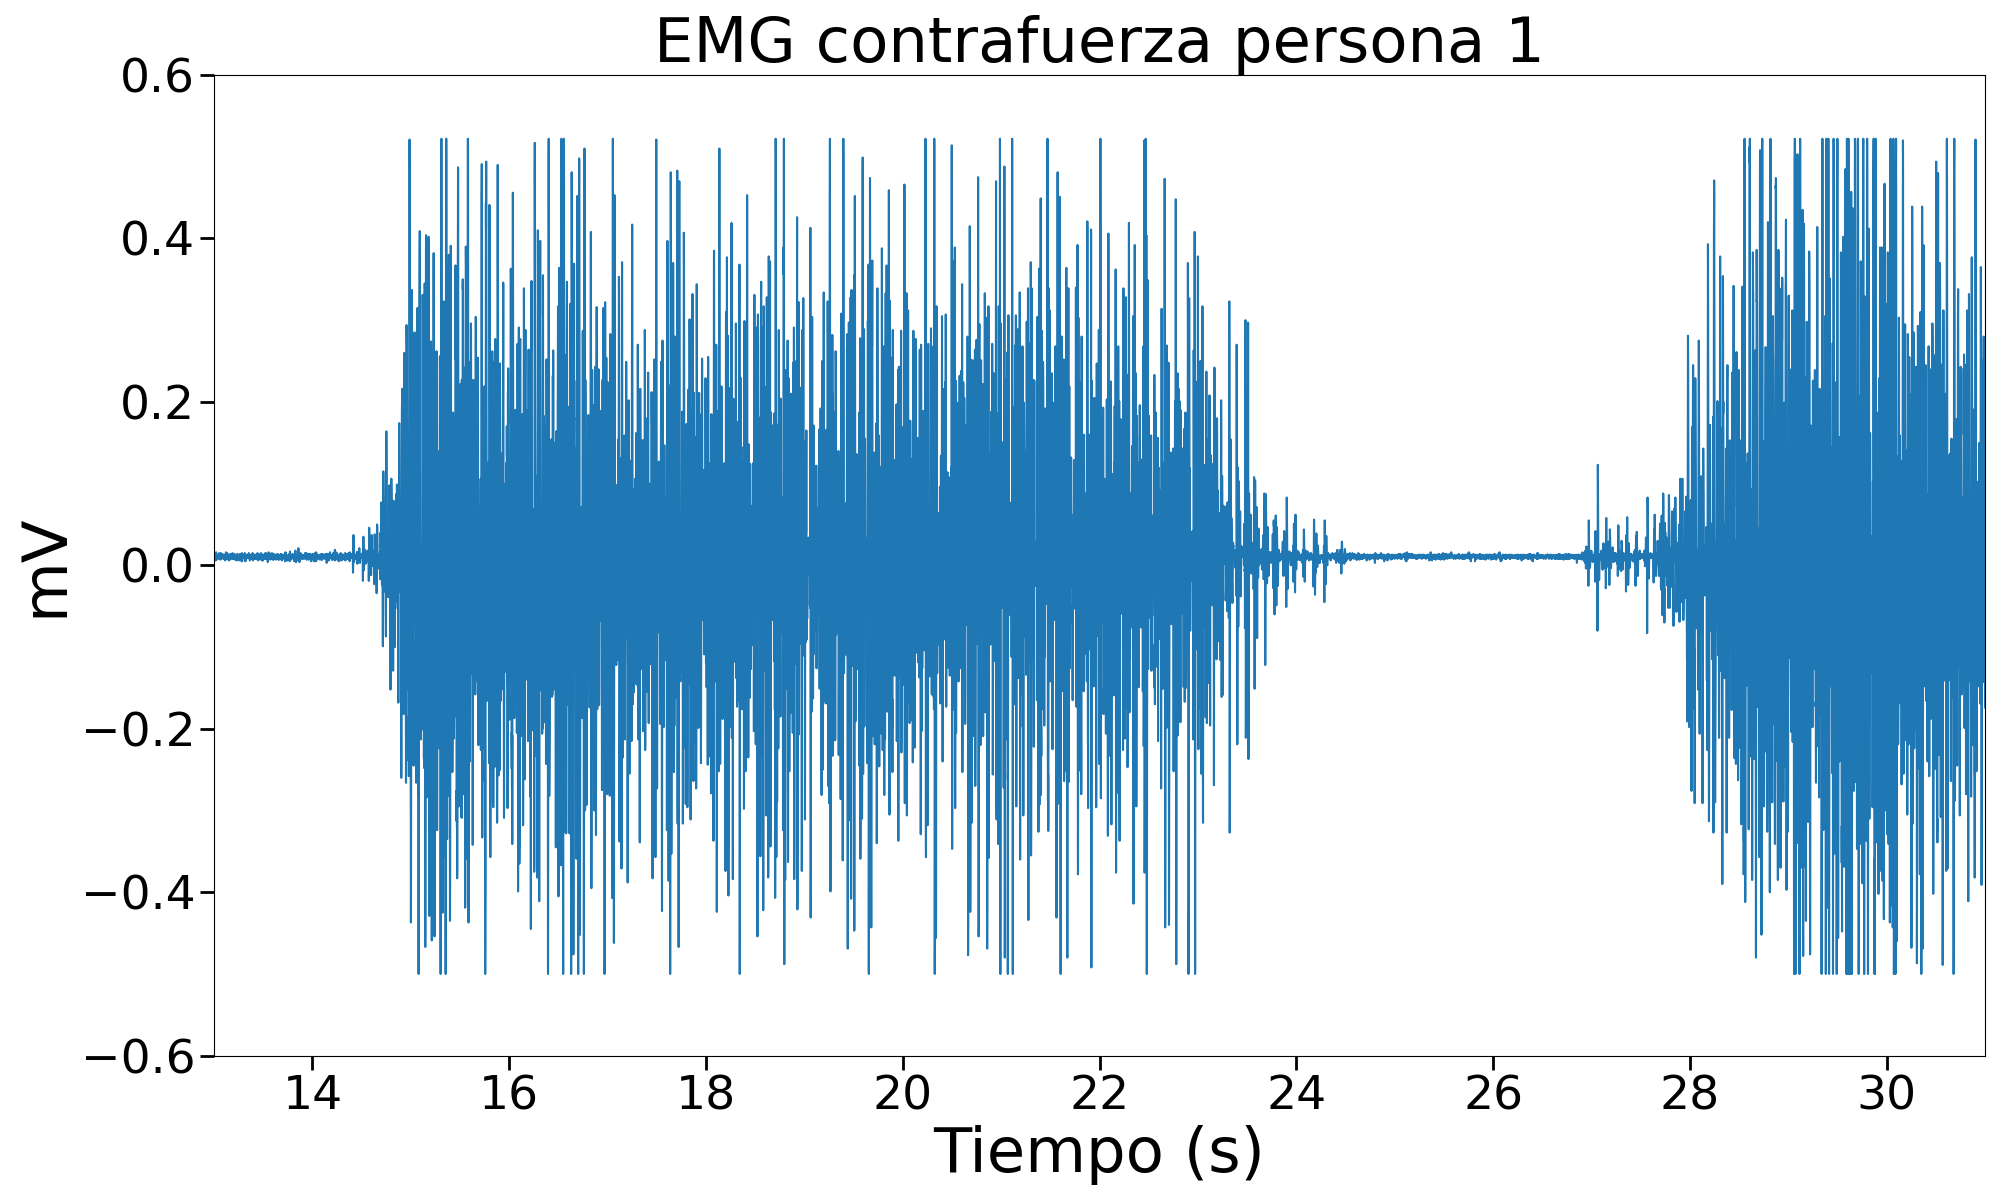
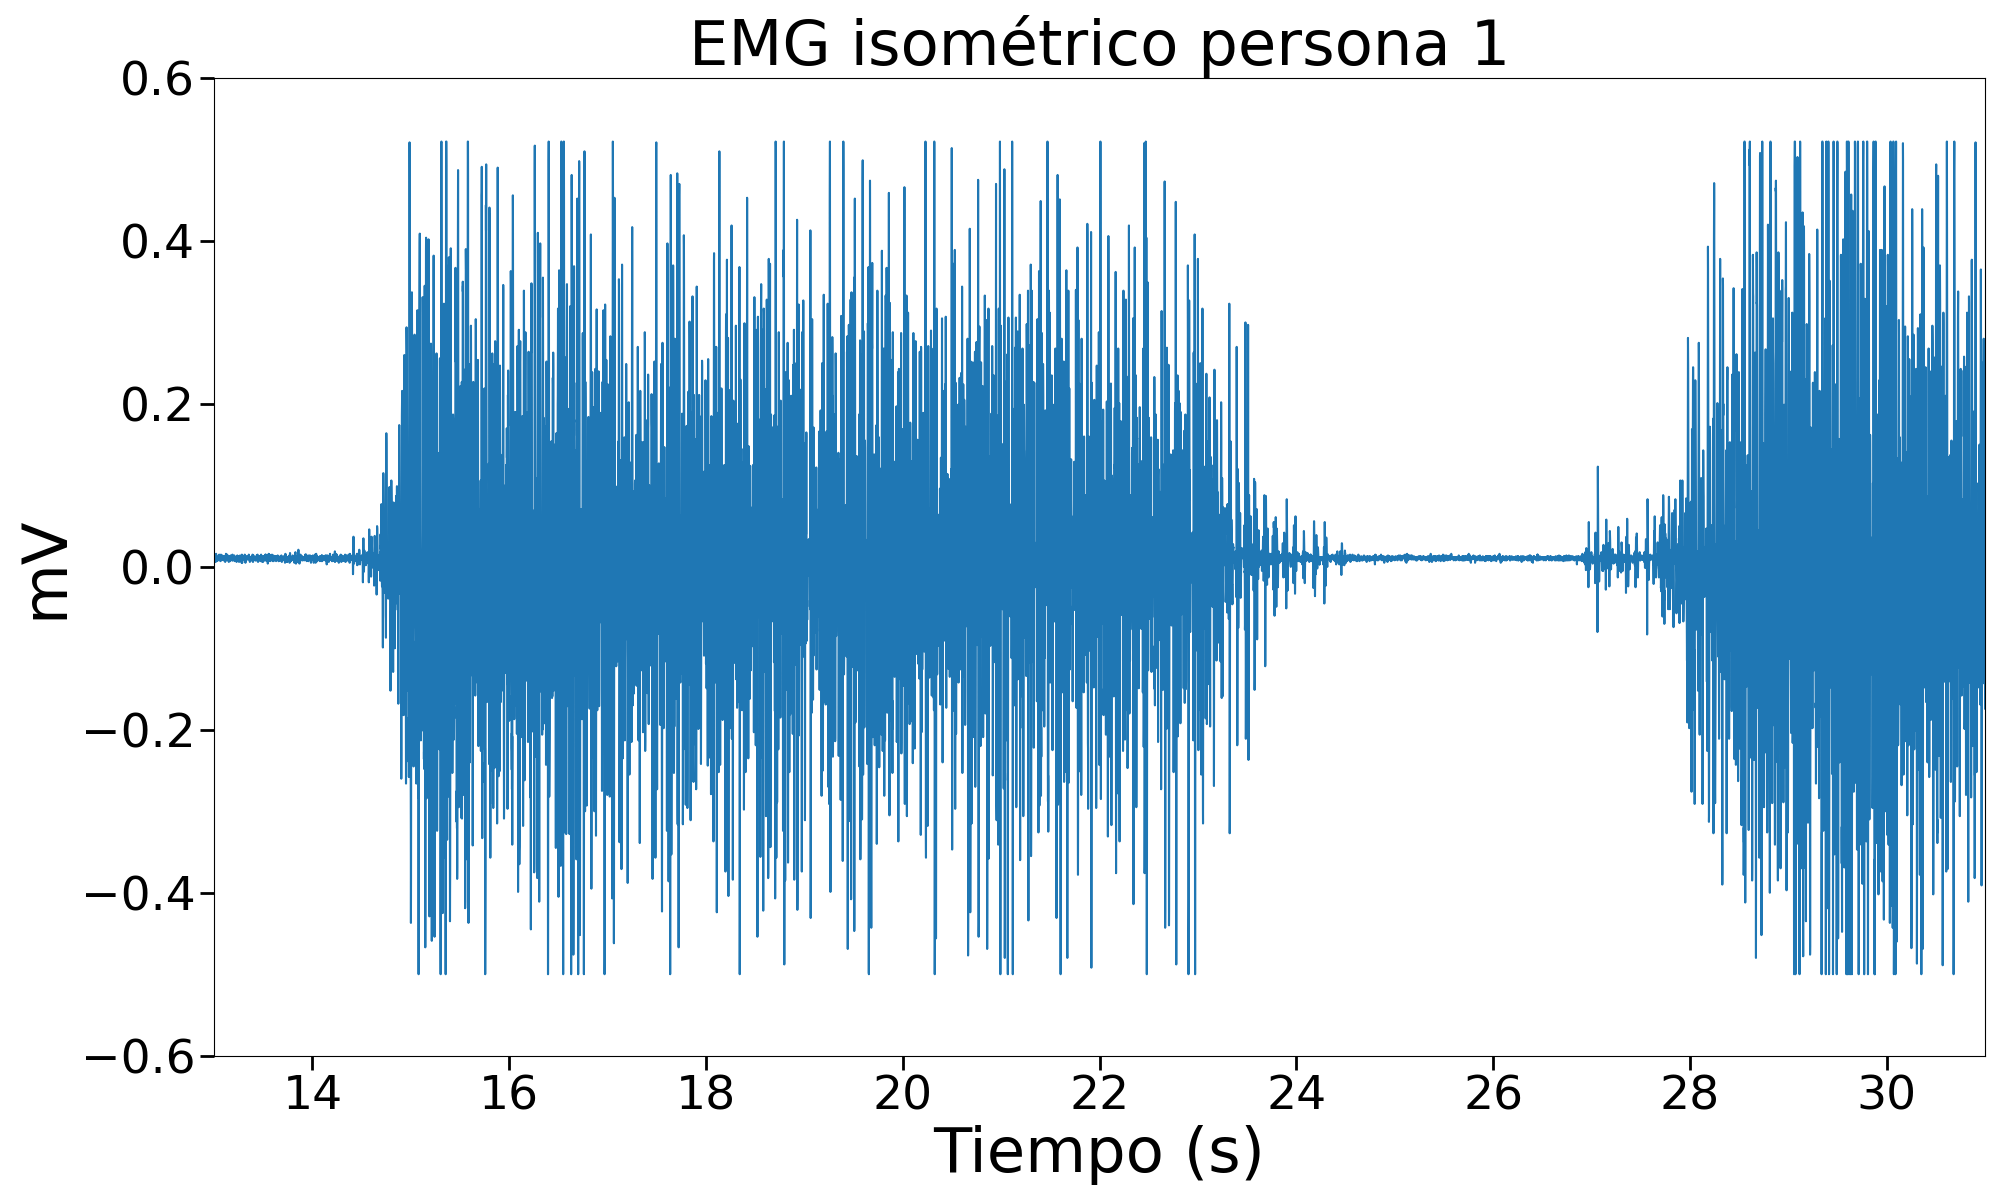
plots names

diff --git a/Documentación/Laboratorio 3/README.md b/Documentación/Laboratorio 3/README.md
@@ -63,8 +63,8 @@ Figura 1. Conexiones de cable de electrodo en BITalino. <br>
     <table style="width:100%;">
         <tr>
             <th style="width:33%;">Reposo</th>
-            <th style="width:33%;">Isométrico</th>
-            <th style="width:33%;">Contrafuerza</th>
+            <th style="width:33%;">Isotónica</th>
+            <th style="width:33%;">isométrico</th>
         </tr>
         <tr>
             <td><img src="plots/isb-reposo-armando.png" style="width:100%;"></td>
